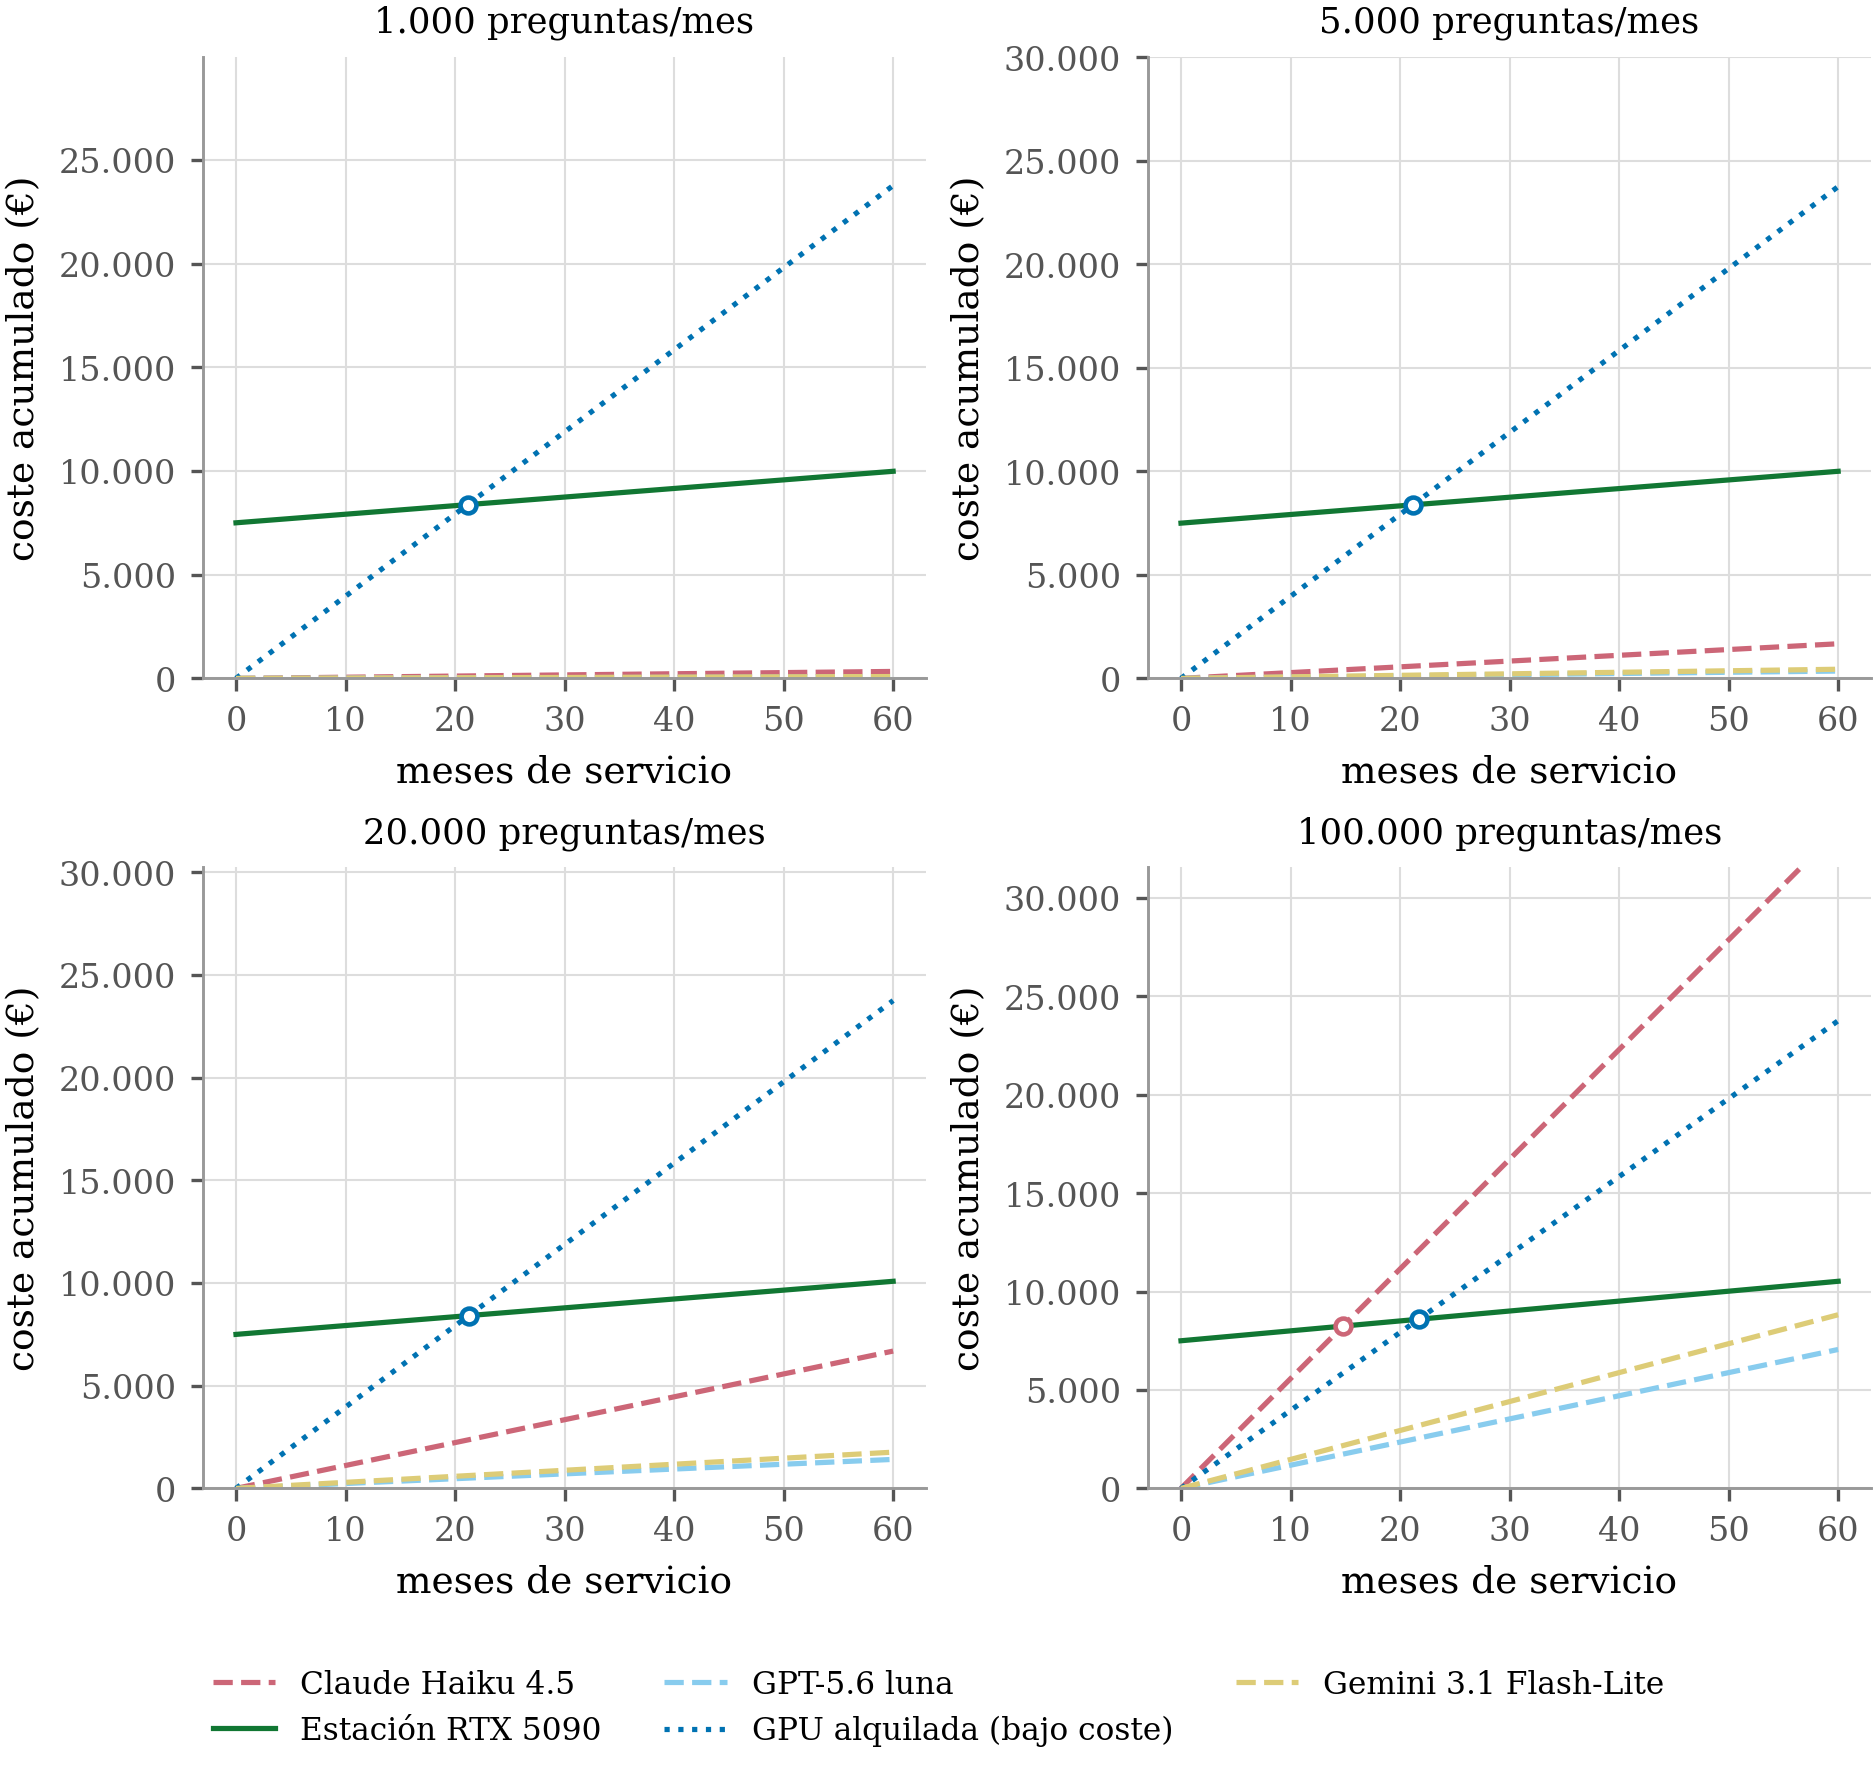
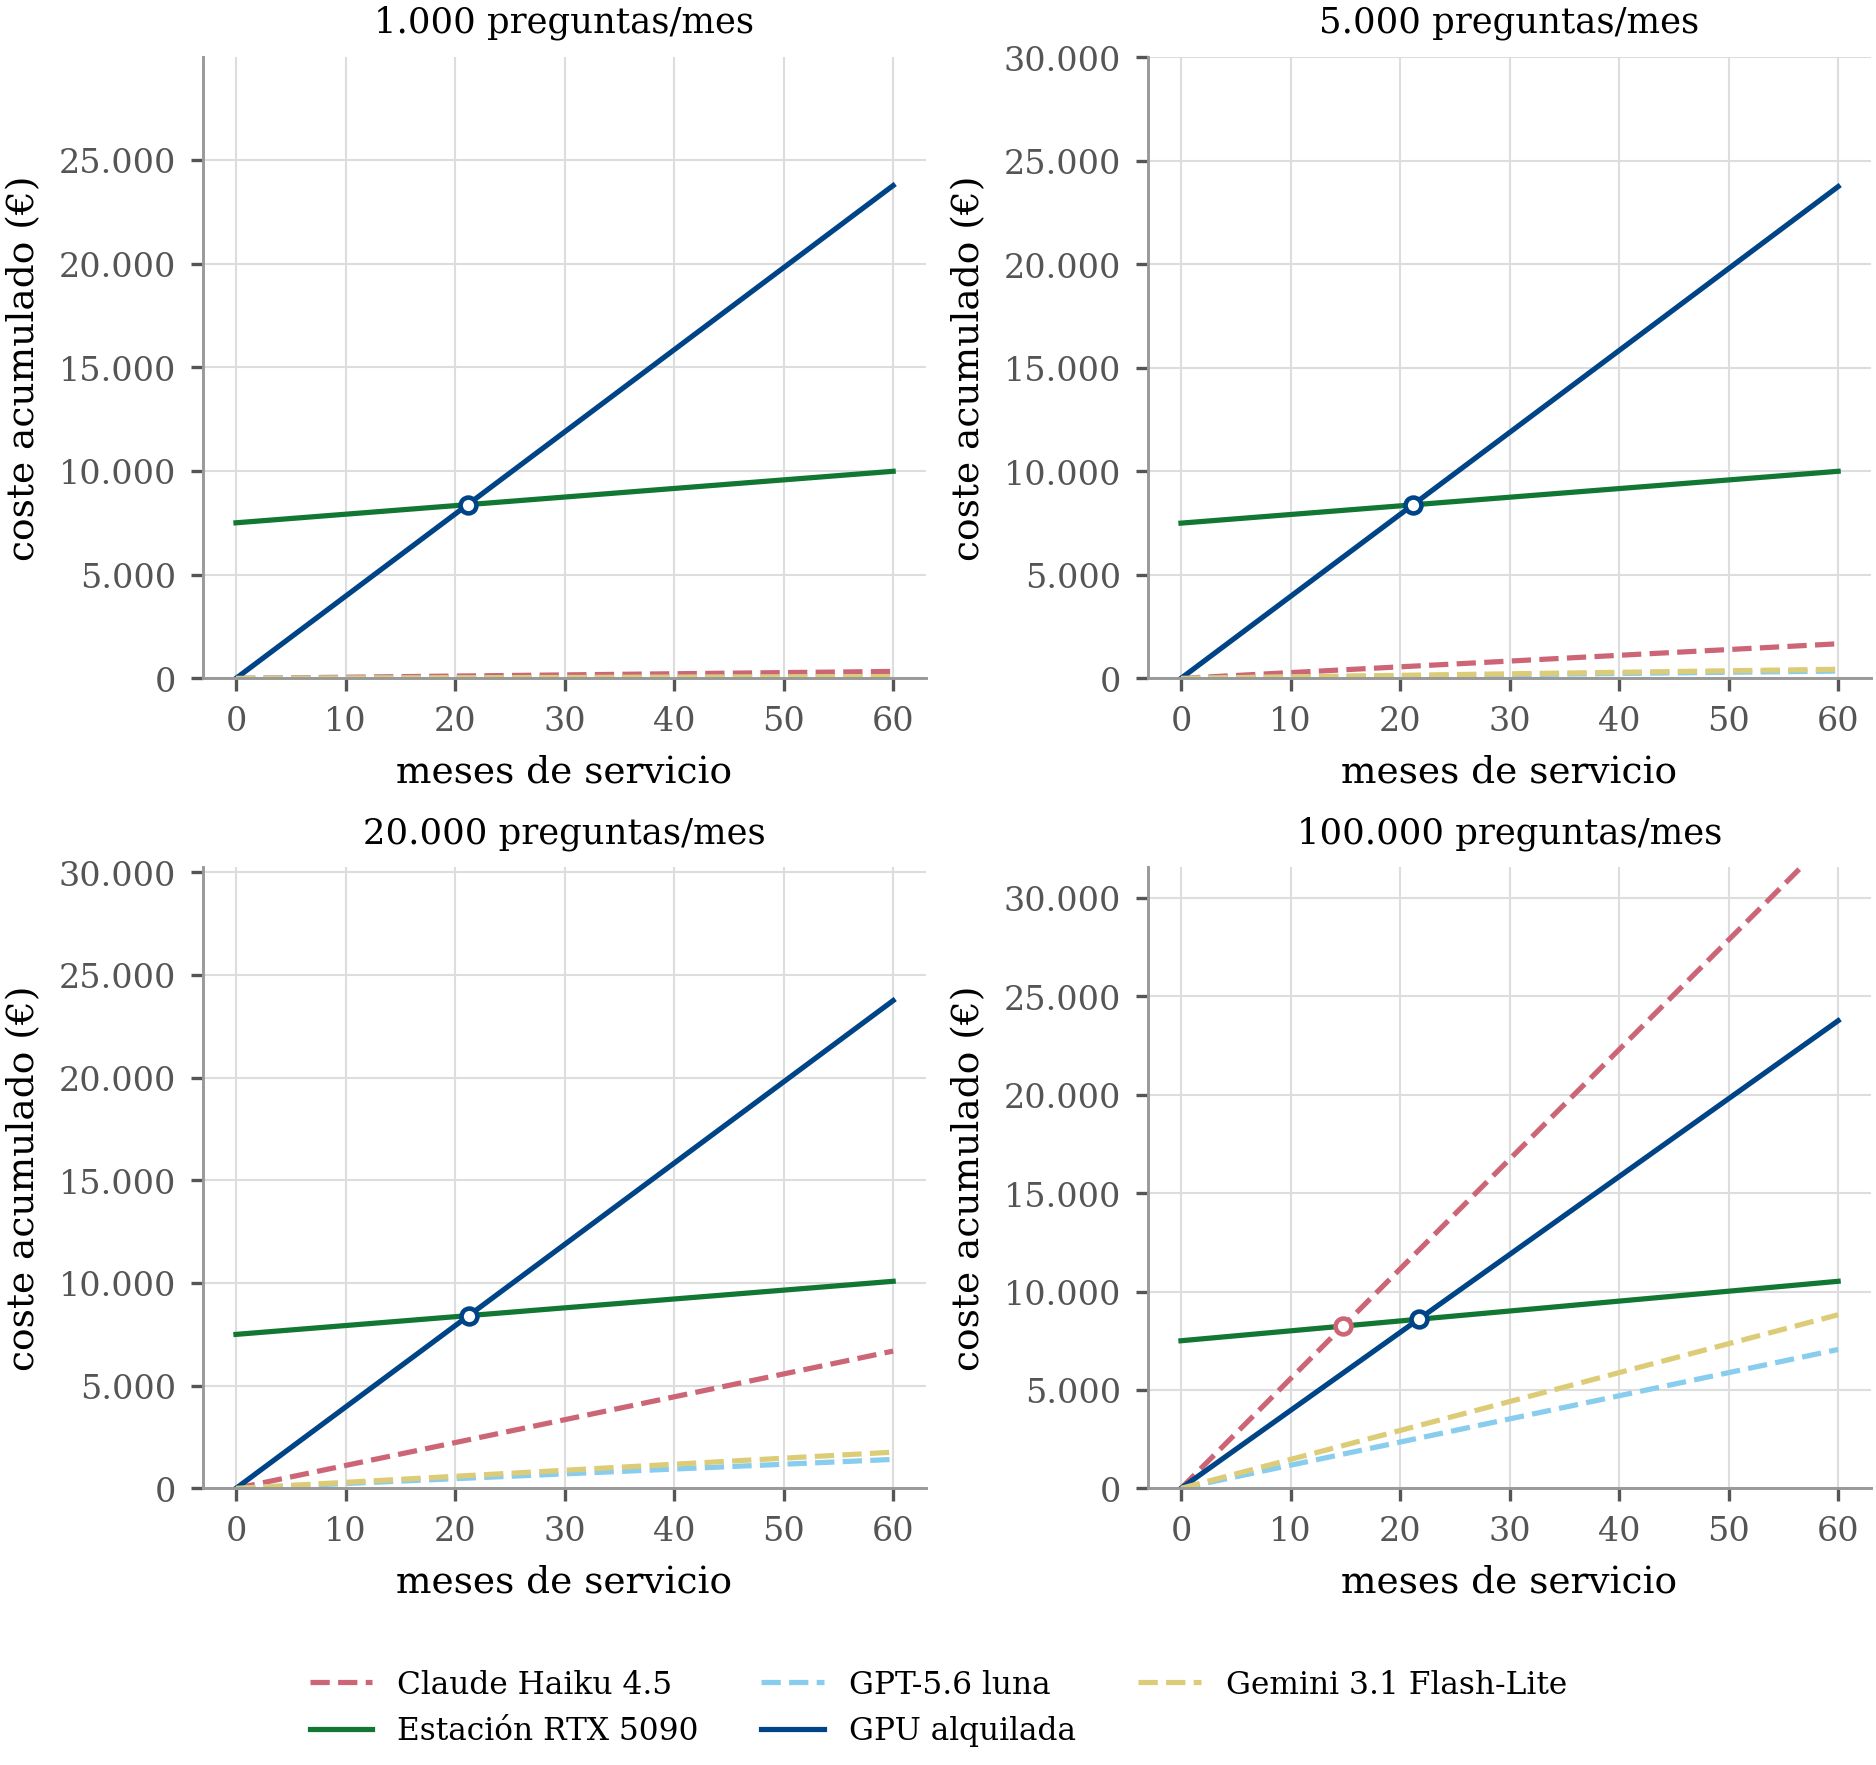
Excluir ORDENADO del recuento de protocolos del corpus
ORDENADO_ground_truth.json son las mismas 110 preguntas de GLOBAL reagrupadas
por protocolo, no un conjunto nuevo. Al aparecer en el árbol de trabajo elevaba
el recuento a 23 protocolos y 725 preguntas, y el verificador lo detectó.

diff --git a/herramientas/analisis_costes_nube.py b/herramientas/analisis_costes_nube.py
@@ -402,8 +402,12 @@ def figuras(escenarios, filas_exp, salida, args):
             lambda v, _p: f"{v:,.{dec}f}".replace(",", "\x00").replace(".", ",")
                                           .replace("\x00", "."))
 
+    # IaaS va en azul oscuro (#004488, azul de la paleta de alto contraste de
+    # Tol). El azul original (#0072B2) se confundía con el celeste de OpenAI
+    # (#88CCEE) por ser de luminosidad parecida; este, mucho más oscuro, se
+    # separa de él sin salirse de la gama azul.
     PROV_COLOR = {"Anthropic": "#CC6677", "Google": "#DDCC77",
-                  "OpenAI": "#88CCEE", "IaaS": "#0072B2", "local": "#117733"}
+                  "OpenAI": "#88CCEE", "IaaS": "#004488", "local": "#117733"}
     MAQ_COLOR = {"Estación RTX 5090": "#117733", "Servidor 1× PRO 6000": "#44AA99"}
 
     # ── Fig 1 · Coste del estudio por proveedor y gama ───────────────────────
@@ -491,9 +495,15 @@ def figuras(escenarios, filas_exp, salida, args):
                 continue
             color = (MAQ_COLOR[e["etiqueta"]] if e["tipo"] == "local"
                      else PROV_COLOR[e["proveedor"]])
-            ls = "-" if e["tipo"] == "local" else ("--" if e["tipo"] == "api" else ":")
+            # Trazo continuo para las dos opciones de coste fijo (equipo propio
+            # y GPU alquilada); discontinuo solo para las APIs por token.
+            ls = "--" if e["tipo"] == "api" else "-"
+            # En esta figura solo se dibuja el proveedor de bajo coste, así que
+            # el matiz sobra en la leyenda; los CSV conservan el nombre completo
+            # porque ahí sí conviven las dos tarifas de IaaS.
+            etq = e["etiqueta"].replace(" (bajo coste)", "")
             ax.plot(meses, e["capex"] + e["mensual"] * meses, ls, lw=1.25,
-                    color=color, label=e["etiqueta"] if vol == VOLUMENES[0] else None)
+                    color=color, label=etq if vol == VOLUMENES[0] else None)
             if e["tipo"] != "local":
                 d = e["mensual"] - e_ref["mensual"]
                 if d > 0 and 0 < e_ref["capex"] / d <= HORIZONTE_MESES:
